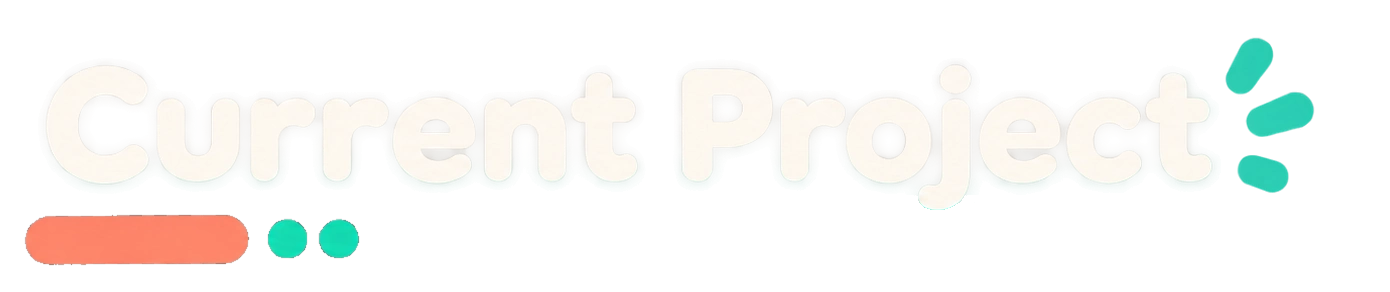
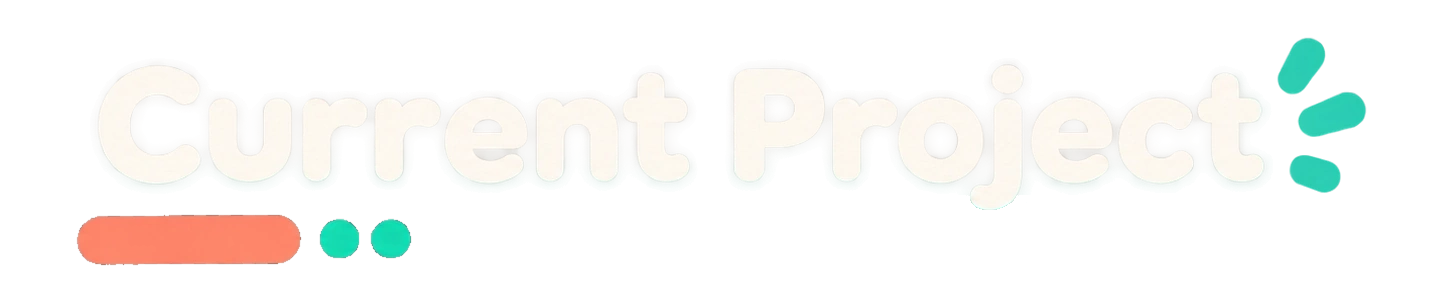
Add left padding to current-project-heading to align with About section

diff --git a/profile/README.md b/profile/README.md
@@ -14,7 +14,7 @@
   <picture>
     <source media="(prefers-color-scheme: dark)" srcset="../assets/current-project-heading-dark.webp">
     <source media="(prefers-color-scheme: light)" srcset="../assets/current-project-heading-light.webp">
-    <img src="../assets/current-project-heading-light.webp" width="50%" alt="current-project-header">
+    <img src="../assets/current-project-heading-light.webp" width="60%" alt="current-project-header">
   </picture>
 
   <picture>
